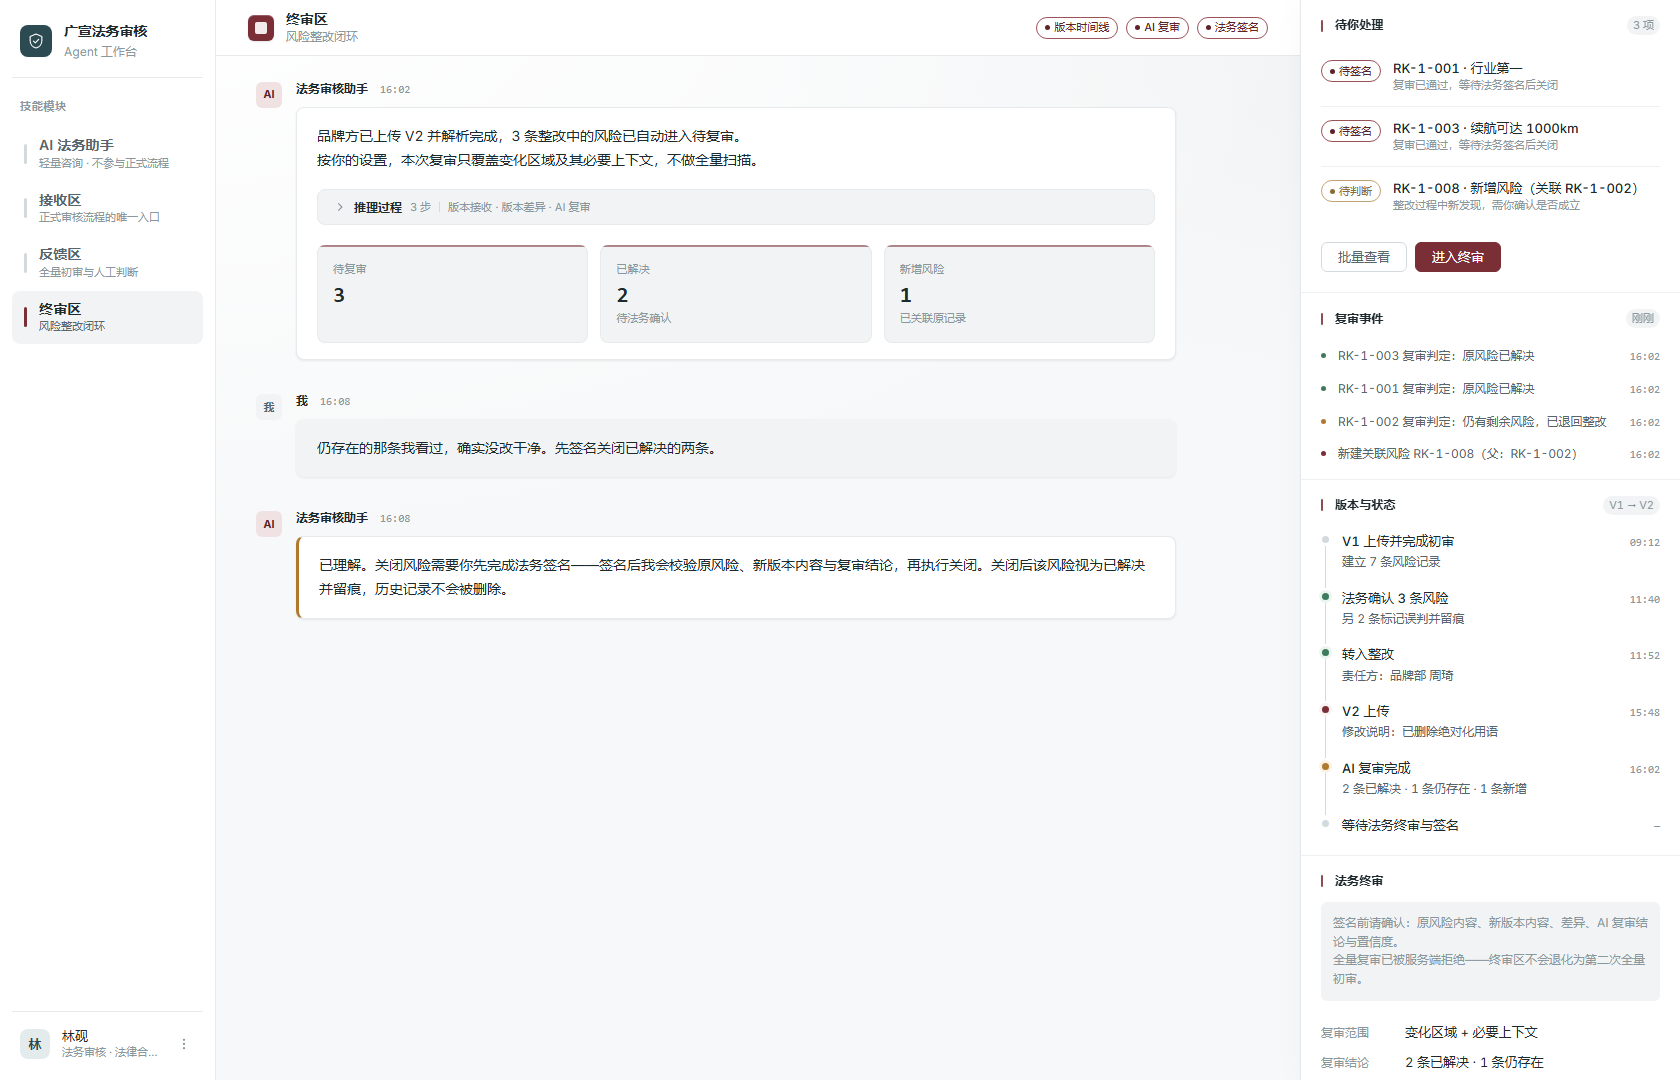
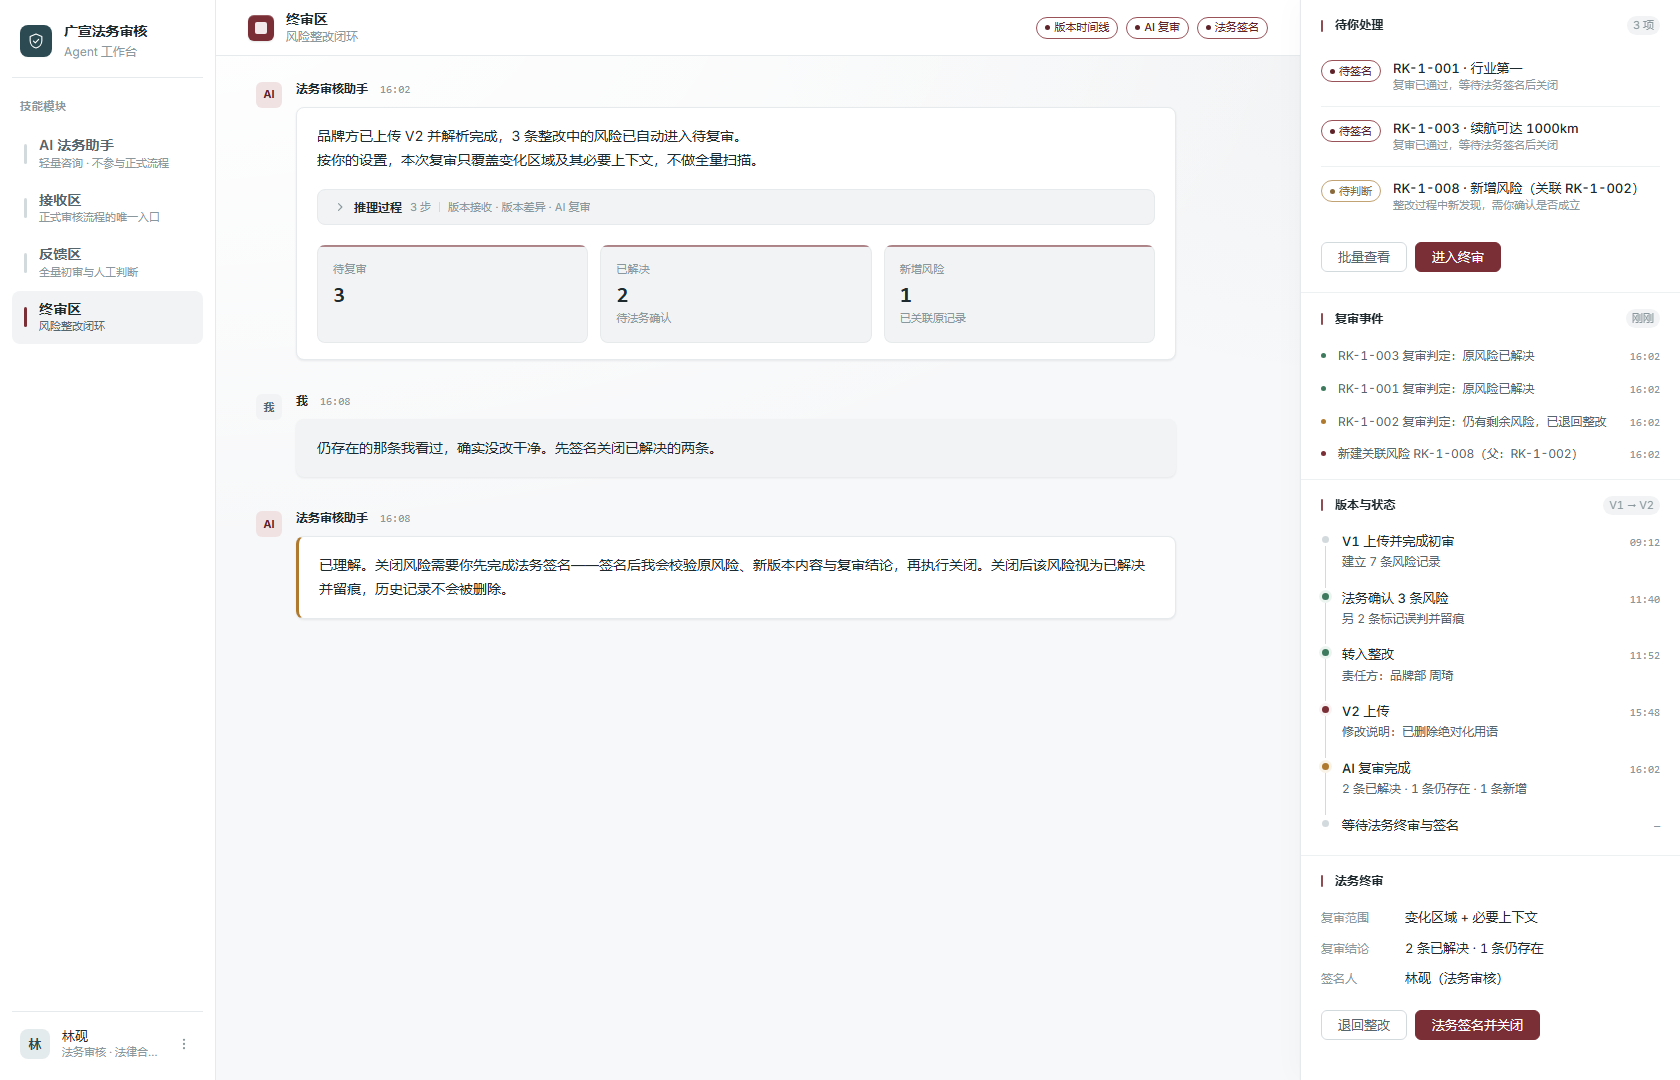
style(web): 移除功能区内的解释性小字，并加固 dev server watcher
内容精简
- 去掉面板内的说明性段落：通过率口径、等级与置信度的维度说明、
  「初审通过不等于批准」提示、审核要求提示、终审区签名须知、助手的能力与文件提示
- 保留功能性信息：状态胶囊、等级标记、数值、标签、定位
- 对话区的说明文字属于 Agent 回复内容，不在清理范围内

修复
- Vite FSWatcher 监视到编辑器原子写入产生的 .*.tmpdir/ 临时目录时抛 EBUSY，
  该异常会终止 dev server 进程，表现为页面突然白屏
- 在 server.watch.ignored 中排除临时文件与目录，避免复发

Changed region(s): [[0.7738, 0.825, 0.9595, 1.0]]

diff --git a/gw-web/src/views/AssistantView.vue b/gw-web/src/views/AssistantView.vue
@@ -101,7 +101,7 @@ const capabilities = [
         </ul>
       </PanelCard>
 
-      <!-- 边界说明：这是产品最容易产生误解的地方，必须显式写出来 -->
+      <!-- 边界说明 -->
       <PanelCard title="助手不做这些">
         <ul class="limits">
           <li>不创建正式审核任务</li>
@@ -109,18 +109,11 @@ const capabilities = [
           <li>不生成批次通过率，也不改变风险状态</li>
           <li>不执行终审、签名、批准或风险关闭</li>
         </ul>
-        <p class="limits__tip">
-          这些动作属于正式流程，需要由有权限的法务在接收区、反馈区、终审区完成。
-        </p>
       </PanelCard>
 
       <!-- 转正式任务的入口：预填充而非直接创建 -->
       <PanelCard title="转成正式审核">
-        <p class="promote__tip">
-          如果这次咨询涉及要对外发布的一批材料，建议转为正式审核任务。
-          我会把当前输入与结论带入接收区，<strong>由你确认后</strong>才创建任务。
-        </p>
-        <dl class="gw-kv" style="margin-top: var(--gw-s3)">
+        <dl class="gw-kv">
           <div class="gw-kv__row"><dt>将带入</dt><dd>本次输入内容与分析结论</dd></div>
           <div class="gw-kv__row"><dt>不会自动</dt><dd>创建任务、上传材料、启动初审</dd></div>
         </dl>
@@ -133,9 +126,6 @@ const capabilities = [
 
       <!-- 本次会话的临时附件 -->
       <PanelCard title="本次会话文件" hint="有有效期">
-        <p class="temp__tip">
-          助手内的文件仅用于本次咨询，到期自动清理，不会进入正式物料库。
-        </p>
         <ul class="gw-rows">
           <li class="gw-row">
             <div class="gw-row__main">
@@ -222,37 +212,5 @@ const capabilities = [
   height: 1.5px;
   border-radius: 1px;
   background: var(--gw-slate-400);
-}
-
-.limits__tip {
-  margin-top: var(--gw-s4);
-  font-size: var(--gw-fs-sm);
-  color: var(--gw-text-tertiary);
-  line-height: var(--gw-lh);
-  padding-top: var(--gw-s3);
-  border-top: 1px solid var(--gw-line-soft);
-}
-
-/* ── 转正式任务 ───────────────────────────────────────────────────── */
-.promote__tip {
-  font-size: var(--gw-fs-sm);
-  color: var(--gw-text-secondary);
-  line-height: var(--gw-lh);
-  padding: var(--gw-s3);
-  border-radius: var(--gw-r-sm);
-  background: var(--gw-accent-faint);
-}
-
-.promote__tip strong {
-  color: var(--gw-text);
-  font-weight: 600;
-}
-
-/* ── 临时文件 ─────────────────────────────────────────────────────── */
-.temp__tip {
-  font-size: var(--gw-fs-sm);
-  color: var(--gw-text-tertiary);
-  line-height: var(--gw-lh);
-  margin-bottom: var(--gw-s3);
 }
 </style>

diff --git a/gw-web/src/views/FeedbackView.vue b/gw-web/src/views/FeedbackView.vue
@@ -120,20 +120,6 @@ const statusOf = (t: RiskRow['statusTone']) => `gw-status gw-status--${t}`
             <div class="gw-stat__label">风险未通过</div>
           </div>
         </div>
-
-        <div class="gw-note" style="margin-top: var(--gw-s4)">
-          通过率 = 初审通过物料数 ÷ 参与初审物料数。解析失败的 2 份不计入分母，单独列出。
-        </div>
-
-        <div class="gw-disclaimer" style="margin-top: var(--gw-s3)">
-          <svg class="gw-disclaimer__icon" viewBox="0 0 16 16" width="14" height="14" fill="none" aria-hidden="true">
-            <circle cx="8" cy="8" r="6.4" stroke="currentColor" stroke-width="1.4" />
-            <path d="M8 7.2v4M8 4.9v.9" stroke="currentColor" stroke-width="1.4" stroke-linecap="round" />
-          </svg>
-          <p class="gw-disclaimer__text">
-            「初审通过」仅表示 AI 未发现明显风险，<strong>不等于法务最终批准</strong>。
-          </p>
-        </div>
       </PanelCard>
 
       <!-- 风险等级分布 -->
@@ -155,7 +141,6 @@ const statusOf = (t: RiskRow['statusTone']) => `gw-status gw-status--${t}`
             <span class="dist__num gw-mono">2</span>
           </li>
         </ul>
-        <p class="dist__tip">等级描述潜在影响；它与「置信度」「流程状态」是三个独立维度，不可互相换算。</p>
       </PanelCard>
 
       <!-- 风险卡片列表 -->
@@ -228,13 +213,6 @@ const statusOf = (t: RiskRow['statusTone']) => `gw-status gw-status--${t}`
   font-weight: 600;
   color: var(--gw-text);
   flex: none;
-}
-
-.dist__tip {
-  margin-top: var(--gw-s4);
-  font-size: var(--gw-fs-xs);
-  color: var(--gw-text-tertiary);
-  line-height: var(--gw-lh);
 }
 
 /* ── 风险卡片 ─────────────────────────────────────────────────────── */

diff --git a/gw-web/src/views/IntakeView.vue b/gw-web/src/views/IntakeView.vue
@@ -152,9 +152,6 @@ const requirements = [
 
       <!-- 审核要求 -->
       <PanelCard title="审核要求" hint="未确认">
-        <p class="req__tip">
-          模板内容不会被自动当作正式要求。请勾选并确认后，才能启动 AI 初审。
-        </p>
         <ul class="req__list">
           <li v-for="r in requirements" :key="r.label" class="req__item">
             <span class="req__box" :class="{ 'is-on': r.on }" aria-hidden="true">
@@ -295,16 +292,6 @@ const requirements = [
 }
 
 /* ── 审核要求 ─────────────────────────────────────────────────────── */
-.req__tip {
-  font-size: var(--gw-fs-sm);
-  color: var(--gw-text-tertiary);
-  line-height: var(--gw-lh);
-  padding: var(--gw-s3);
-  background: var(--gw-accent-faint);
-  border-radius: var(--gw-r-sm);
-  margin-bottom: var(--gw-s3);
-}
-
 .req__list {
   display: flex;
   flex-direction: column;

diff --git a/gw-web/vite.config.ts b/gw-web/vite.config.ts
@@ -21,6 +21,22 @@ export default defineConfig({
   server: {
     port: 5173,
     host: '127.0.0.1',
+    /**
+     * 忽略编辑器原子写入产生的临时文件。
+     *
+     * 编辑器（含部分 IDE 与文件工具的原子保存）会先写 `.<name>.<pid>.<rand>.tmpdir/` 再重命名，
+     * Windows 上 Vite 的 FSWatcher 监视到这些临时目录时会抛 EBUSY，
+     * 且该错误会作为未捕获异常**直接终止 dev server 进程**（表现为页面突然白屏）。
+     */
+    watch: {
+      ignored: [
+        '**/.*.tmpdir/**',
+        '**/*.tmp',
+        '**/*.tmpdir/**',
+        '**/.git/**',
+        '**/node_modules/**',
+      ],
+    },
     // 后端已在 8080 运行；开发期直接代理，避免 CORS 与硬编码地址
     proxy: {
       '/api': {

diff --git a/gw-web/src/views/FinalReviewView.vue b/gw-web/src/views/FinalReviewView.vue
@@ -157,11 +157,7 @@ const events = ref([
 
       <!-- 法务终审 -->
       <PanelCard title="法务终审">
-        <div class="gw-note gw-note--plain">
-          签名前请确认：原风险内容、新版本内容、差异、AI 复审结论与置信度。<br />
-          全量复审已被服务端拒绝——终审区不会退化为第二次全量初审。
-        </div>
-        <dl class="gw-kv" style="margin-top: var(--gw-s4)">
+        <dl class="gw-kv">
           <div class="gw-kv__row"><dt>复审范围</dt><dd>变化区域 + 必要上下文</dd></div>
           <div class="gw-kv__row"><dt>复审结论</dt><dd>2 条已解决 · 1 条仍存在</dd></div>
           <div class="gw-kv__row"><dt>签名人</dt><dd>林砚（法务审核）</dd></div>
